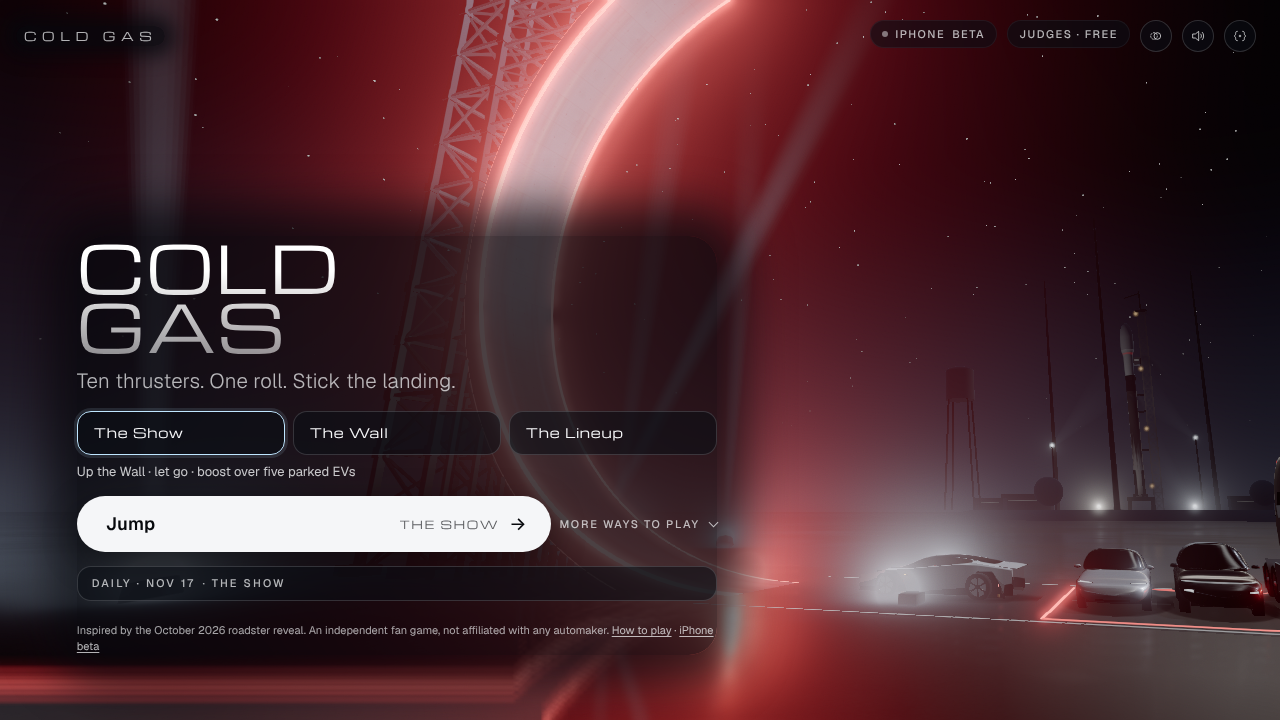
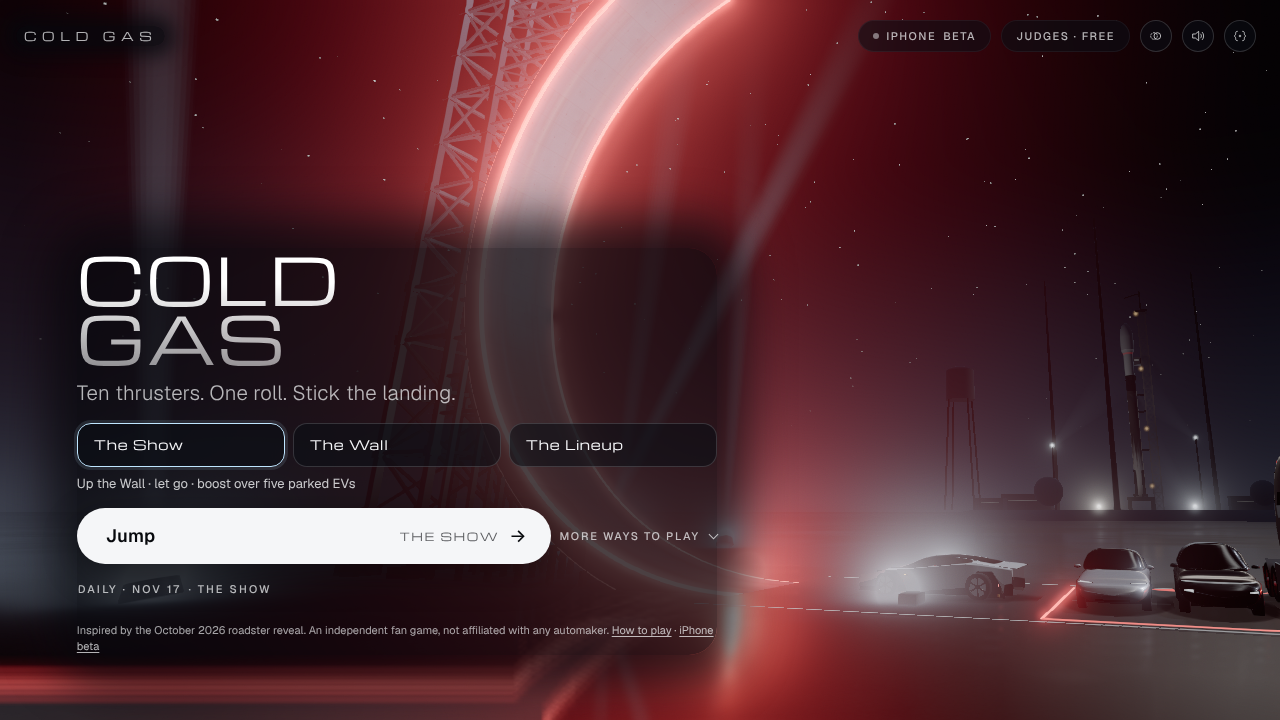
build: 0264 review: the quiet chips keep their size and narrow paddings, the Daily reads as a caption; ticket shipped, LESSONS
Self-review: the first-visit chip rule's padding beat the <= 480 px and <= 360 px paddings and pushed the beta chip off a
320 px column; now it changes only the edge (and a quiet hover), keeping the 32 px touch target. The one-line Daily drops its
border and glass so it no longer looks like a button. e2e: a coloured edge counts as loud (the gold Play today's), a 320x568
column, nothing clipped, the chips' edges back after the first landing.

Claude-Session: https://claude.ai/code/session_01AQyTjYrxFkk2p56wQaTa91

diff --git a/tests/e2e/first-title.spec.js b/tests/e2e/first-title.spec.js
@@ -7,6 +7,7 @@ test.slow();
 
 const PHONE = { viewport: { width: 390, height: 844 }, hasTouch: true, isMobile: true };
 const DESKTOP = { viewport: { width: 1280, height: 720 } };
+const COLUMN = { viewport: { width: 320, height: 568 }, hasTouch: true, isMobile: true };
 
 async function boot(page, { landed = false } = {}) {
   const errors = [];
@@ -22,9 +23,9 @@ async function boot(page, { landed = false } = {}) {
   return errors;
 }
 
-// Everything the page shows on the title, measured: each visible control's box, its text's contrast against the darkest
-// backing it can sit on (its own fill over the title's black, the conservative case for a translucent chip), and how
-// "loud" its fill is (luma of the background colour × alpha).
+// Everything the page shows on the title, measured: each visible control's box, its text's contrast on its own fill over
+// black (the glass's tint; the HUD audit measures it on screenshots over the scene), how "loud" its fill is (luma of the
+// background colour × alpha) and its edge (the border's alpha × its colour's saturation: an amber edge is a loud one).
 const measure = (page) => page.evaluate(() => {
   const rgba = (s) => { const m = s.match(/[\d.]+/g)?.map(Number) || [0, 0, 0, 0]; return { r: m[0], g: m[1], b: m[2], a: m[3] ?? 1 }; };
   const lin = (c) => { c /= 255; return c <= 0.04045 ? c / 12.92 : ((c + 0.055) / 1.055) ** 2.4; };
@@ -44,7 +45,7 @@ const measure = (page) => page.evaluate(() => {
       sel: el.matches('[data-start]') ? 'jump' : el.matches('.beta-chip') ? 'beta' : el.matches('.ai-chip') ? 'judges'
         : el.matches('[data-daily-play]') ? 'daily' : (el.getAttribute('class') || el.tagName).split(' ')[0],
       box: { x: r.x, y: r.y, w: r.width, h: r.height }, inView: inView(r),
-      loud: lum(over(bg, black)), contrast: (hi + 0.05) / (lo + 0.05), border: rgba(cs.borderTopColor).a, tab: el.tabIndex >= 0,
+      loud: lum(over(bg, black)), edge: (() => { const c = rgba(cs.borderTopColor); return c.a * (Math.max(c.r, c.g, c.b) - Math.min(c.r, c.g, c.b)) / 255; })(), contrast: (hi + 0.05) / (lo + 0.05), border: rgba(cs.borderTopColor).a, tab: el.tabIndex >= 0, radio: el.getAttribute('role') === 'radio',
     };
   });
   const card = document.querySelector('[data-title-extra] .xc-daily');
@@ -68,7 +69,7 @@ const overlaps = (out) => {
   return hits;
 };
 
-for (const [name, ctx] of [['390x844 touch', PHONE], ['1280x720', DESKTOP]]) {
+for (const [name, ctx] of [['390x844 touch', PHONE], ['1280x720', DESKTOP], ['320x568 touch', COLUMN]]) {
   test(`first visit, ${name}: Jump is the only loud button; the chips are quiet and legible; the Daily is one line`, async ({ browser }) => {
     const page = await browser.newPage(ctx);
     const errors = await boot(page);
@@ -76,9 +77,13 @@ for (const [name, ctx] of [['390x844 touch', PHONE], ['1280x720', DESKTOP]]) {
     expect(m.flag).toBe(true);
     const jump = m.out.find((o) => o.sel === 'jump');
     expect(jump?.inView).toBe(true);
-    // The one filled button: nothing else visible above the fold has a fill a third as bright as Jump's.
-    const loud = m.out.filter((o) => o.inView && o.sel !== 'jump' && o.loud > jump.loud / 3).map((o) => o.sel);
+    // The one loud button: nothing else visible above the fold has a fill a third as bright as Jump's, or a coloured edge
+    // (the gold Play today's had one); the picked event's ring is a radio's state, not a call to action.
+    const loud = m.out.filter((o) => o.inView && o.sel !== 'jump' && (o.loud > jump.loud / 3 || (o.edge > 0.25 && !o.radio))).map((o) => o.sel);
     expect(loud).toEqual([]);
+    // Every control on the screen, edge to edge (a 320 px column clips nothing).
+    const vw = ctx.viewport.width;
+    expect(m.out.filter((o) => o.box.x < -0.5 || o.box.x + o.box.w > vw + 0.5).map((o) => o.sel)).toEqual([]);
     // The Daily: its header line only, no gold button, still named for a screen reader.
     expect(m.card).toMatchObject({ head: true, goal: false, streak: false, play: false });
     expect(m.card.label).toMatch(/daily/i);
@@ -98,11 +103,13 @@ for (const [name, ctx] of [['390x844 touch', PHONE], ['1280x720', DESKTOP]]) {
     const errors2 = await boot(back, { landed: true });
     const r = await measure(back);
     expect(r.flag).toBe(false);
-    expect(r.card).toMatchObject({ head: true, goal: true, play: true });
+    // Today's whole card (a 568 px tall column has no room for it at all: its fit steps it out, as before 0264).
+    if (ctx.viewport.height >= 700) expect(r.card).toMatchObject({ head: true, goal: true, play: true });
     for (const sel of ['beta', 'judges']) {
       const q = m.out.find((o) => o.sel === sel), full = r.out.find((o) => o.sel === sel);
       expect(q.border, sel).toBeLessThan(full.border);
-      expect(q.box.h, sel).toBeLessThanOrEqual(full.box.h);
+      expect(q.box.h, sel).toBe(full.box.h);   // the same touch target
+      expect(q.box.w, sel).toBeLessThanOrEqual(full.box.w + 0.5);
     }
     expect(errors).toEqual([]);
     expect(errors2).toEqual([]);
@@ -119,7 +126,11 @@ test('first visit: the first landing gives back today’s title, Play today’s 
   await page.evaluate(() => { const f = window.__coldgas.funnel; f.jumpEnd(f.jumpStart('show', 'assist'), { course: 'show', tier: 'assist', landed: true, score: 90 }); });
   await page.evaluate(() => window.__coldgas.toTitle());
   await expect(page.locator('[data-daily-play]')).toBeVisible();
+  await expect(page.locator('[data-title-extra] .xc-daily .xc-goal')).toBeVisible();
   expect(await page.evaluate(() => document.documentElement.hasAttribute('data-first-title'))).toBe(false);
+  // The chips have their edge back (the beta's green, Judges' hairline).
+  const edges = await page.evaluate(() => ['.beta-chip', '.ai-chip'].map((s) => +getComputedStyle(document.querySelector(s)).borderTopColor.match(/[\d.]+/g)[3]));
+  for (const a of edges) expect(a).toBeGreaterThan(0.1);
   expect(errors).toEqual([]);
   await page.close();
 });

diff --git a/src/styles.css b/src/styles.css
@@ -2198,10 +2198,11 @@ body[data-beat-on] .hud { filter: opacity(0); pointer-events: none; }
 /* Opened on a first run it holds the whole menu: the wordmark steps aside for it, as the tagline does. */
 .title[data-first]:has(.play-more[open]) > .wordmark { display: none; }
 /* 0264: and above it the top bar's chips step back: the iPhone beta and Judges keep their words, their place in the Tab order
-   and their glass (text ≥ 4.5:1), and lose their edge, the beta's green glow and a little height. From the first landing on, as
-   before. The Menu stays as it is (it's how a player finds sound, the ghost and For nerds). */
-:root[data-first-title] body:is(:not([data-mode]), [data-mode='title']) :is(.beta-chip, .ai-chip) { height: 28px; padding: 0 11px;
-  border-color: rgba(245, 246, 248, 0.06); color: var(--ink-2); }
+   their glass and their size (a 32 px touch target; the narrow screens' paddings hold), and lose their edge and the beta's
+   green glow. From the first landing on, as before. The Menu stays as it is (it's how a player finds sound, the ghost and For nerds). */
+:root[data-first-title] body:is(:not([data-mode]), [data-mode='title']) :is(.beta-chip, .ai-chip) { border-color: rgba(245, 246, 248, 0.06);
+  color: var(--ink-2); }
+:root[data-first-title] body:is(:not([data-mode]), [data-mode='title']) :is(.beta-chip, .ai-chip):hover { border-color: var(--hair); }
 :root[data-first-title] body:is(:not([data-mode]), [data-mode='title']) .beta-chip i { background: var(--ink-3); box-shadow: none; }
 
 /* --- After a landing (0257): Next jump leads, then Beat <score> (Retry, a step down), then Share. A wreck: Retry leads.

diff --git a/src/comeback.css b/src/comeback.css
@@ -93,7 +93,8 @@
    so the Daily is its header line alone (no goal, no streak, no gold "Play today's", no amber rule) until this device has
    landed a Jump. A challenge someone sent keeps its card: that's why the visitor came. Ahead of the fit levels: the header
    is the one line, so it stays when the card is tight. */
-:root[data-first-title] .xc-daily { grid-template-areas: 'k'; grid-template-columns: minmax(0, 1fr); padding: 10px 14px; }
+:root[data-first-title] .xc-daily { grid-template-areas: 'k'; grid-template-columns: minmax(0, 1fr); padding: 4px 0;
+  border-color: transparent; background: none; backdrop-filter: none; }   /* a caption, not a pill that looks tappable */
 :root[data-first-title] .xc-daily::before { display: none; }
 :root[data-first-title] .xc-daily :is(.xc-goal, .xc-streak, .xc-go) { display: none; }
 :root[data-first-title] .title .xc-daily .xc-k { display: flex; }

diff --git a/docs/LESSONS.md b/docs/LESSONS.md
@@ -252,3 +252,4 @@ Mistakes already paid for. Read before working.
 - **A key held from a probe after `startRun()` from `evaluate` may never reach the run; start it the way the e2e does (2026-11-16, critic).** My crash probe called `startRun('jump')`, `skipCountdown()`, then `page.keyboard.down('ArrowUp')` for 2.5 s of wall time on SwiftShader. The car stayed at 0 mph under "HOLD ↑ TO DRIVE" and the run never ended in 150 s. `tests/e2e/input.spec.js` starts with the title's tap (`go(page)`), waits for `live`, and waits on the sim's tick, not on wall time. For a wreck, copy that pattern (or step `liveStep` with input) and wait for the sim to move before releasing the key.
 - **A guide step's "done" must read the input only where the step can be done (2026-11-17, builder, 0263).** The first cut of the aim step counted any held thumb past the slide's dead zone as done: a newcomer who follows "Hold to go" keeps the thumb down for 10 s up the curl, and a 7 px drift on the glass would have retired the aim hint before it was ever due (the self-review caught it; the probes only slid after the hint). `guideStep` checks every step's DONE every frame, so gate DONE on the step's own context (here, the sight up). Also: the cue line holds a message 400 ms of wall clock (src/ui.js), so an e2e that steps the sim synchronously reads the first cue forever; let the hold pass once (or read `S.guide.shown`) before asserting the words.
 - **Not every start goes through `whenPhysics`; a "waiting" state on Jump must cover the others (2026-11-17, builder, 0154).** The first cut of "Starting…" lived in `whenPhysics` only. The self-review found the challenge card's Take (src/comeback.js `take()`) awaits `o.ready()` itself before it calls `startRun`, so the one start most likely to be tapped in a slow phone's first seconds never showed it; it now calls `o.pending(true/false)` around that wait. Two more: a bare-text `.btn` (the daily card's) faded its own label out under `.btn`'s 0.3 s colour transition while "Starting…" was already drawn (both visible), so a state that swaps a label sets `transition: none`; and the daily card can redraw under the very tap (a tier change → `refresh()`), so find a pressed button again by its data attribute before falling back. Also: lifecycle's phone `@perf` case fails in this sandbox on main too (one 71 ms task over the 50 ms local bar; CI's bar is 150 ms), so compare against main before blaming a change.
+- **A state rule that restyles a shared control must not set what the narrow-screen media queries set (2026-11-17, builder, 0264).** The first cut of the quiet first-visit chips set `padding: 0 11px` under `:root[data-first-title] body:is(...)`; its specificity beat `.chip`'s ≤ 480 px and ≤ 360 px paddings, so the "smaller" chips grew wider and pushed the beta chip 4 px off a 320 px column (the self-review measured it; the e2e at 390 and 1280 didn't). Change only the property the state is about (here the edge), and put a 320 px case in any title e2e that touches the top bar.

diff --git a/docs/backlog/0264-a-first-visit-title-gives-the-jump-button-the-only-loud-voice.md b/docs/backlog/0264-a-first-visit-title-gives-the-jump-button-the-only-loud-voice.md
@@ -1,7 +1,7 @@
 ---
 id: 0264
 title: A first-ever visit's title gives Jump the only loud voice, not the iPhone chip or the daily card
-status: ready
+status: shipped
 priority: P1
 size: S
 lens: engagement
@@ -28,10 +28,10 @@ collapses to its one-line header until the player has landed once; "Play today's
 players see today's title unchanged. No new network call, no new element, no sim change.
 
 ## Acceptance criteria
-- [ ] With `coldgas_howto=new` at 390×844, Jump is the only filled/bright button above the fold; the chips are
+- [x] With `coldgas_howto=new` at 390×844, Jump is the only filled/bright button above the fold; the chips are
   visibly quieter (measured contrast ≥ 4.5:1 for their text, so still legible) and the daily card shows no gold button.
-- [ ] After one landed run (or any stored medal) the title is exactly today's.
-- [ ] 1280×720 keyboard/mouse title unchanged for returning players; first-visit variant also fits with no overlap
+- [x] After one landed run (or any stored medal) the title is exactly today's.
+- [x] 1280×720 keyboard/mouse title unchanged for returning players; first-visit variant also fits with no overlap
   (`npm run audit`), and tab order still reaches every control.
 - [ ] Moves: `run` per `visit-new` in the players funnel (and `visit-new` → `run-landed`).
 
@@ -41,3 +41,14 @@ collapsed daily card; a context with a stored medal asserts the original title. 
 
 ## Out of scope
 Removing the beta link or the daily; copy changes; any returning-player layout change.
+
+**Builder, 2026-11-17:** shipped. "First visit" is 0247's `firstRun()` (this device has never landed a Jump; a stored landing
+counts), the same test that already folds the title's secondary row under More ways to play, so the two stay in step; a
+player who has only ever wrecked keeps the quiet title until a first landing. `:root[data-first-title]` (src/main.js
+`syncFirstTitle`): the beta and Judges chips keep their words, glass, Tab order and 32 px height and lose their edge and the
+green glow (text ≥ 4.5:1); the Daily is its header line as a caption (no goal, streak, amber rule or "Play today's"). A
+challenge's card stays whole. `tests/e2e/first-title.spec.js` at 390×844 touch, 1280×720 and a 320×568 column: Jump the only
+fill or coloured edge above the fold, nothing clipped or overlapping, the title under the bar; a landed device and a first
+landing in-session get today's title. The audits (`npm run audit`) fly as a returning player, so the e2e carries the
+first-visit layout checks. The funnel box (run per visit-new) is for the Critic and Scout to read on production.
+Shots: docs/shots/0264/.
